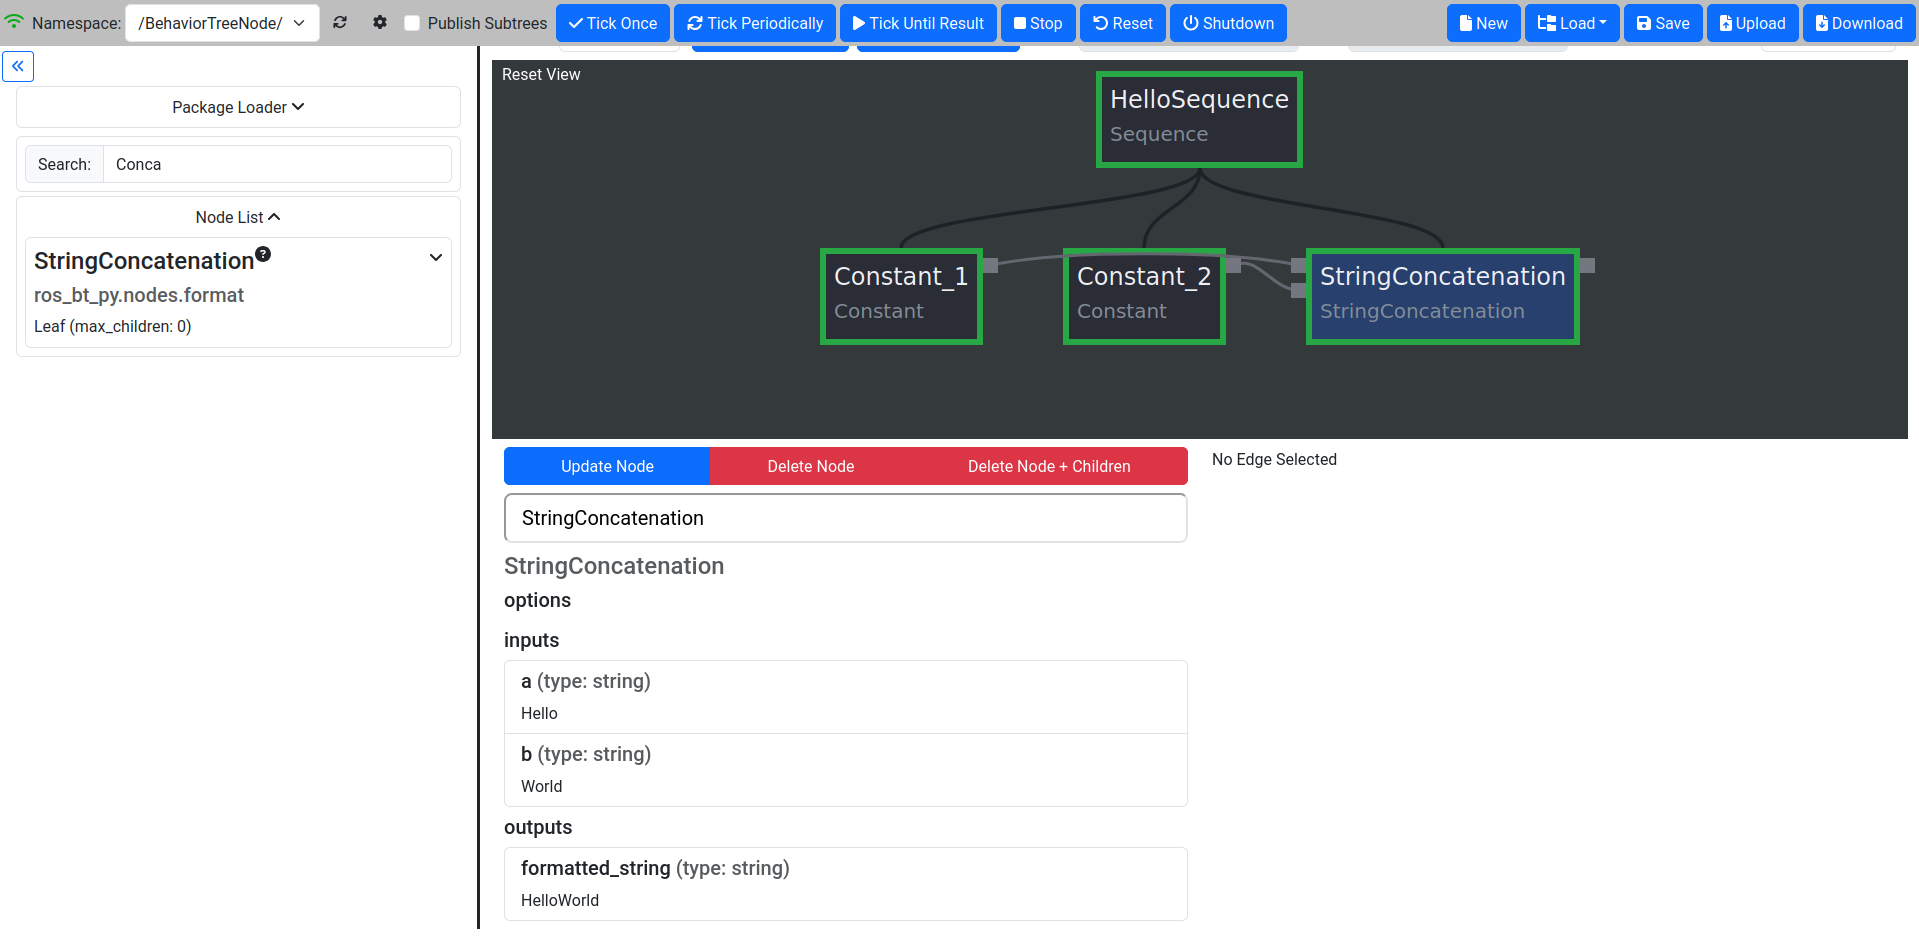
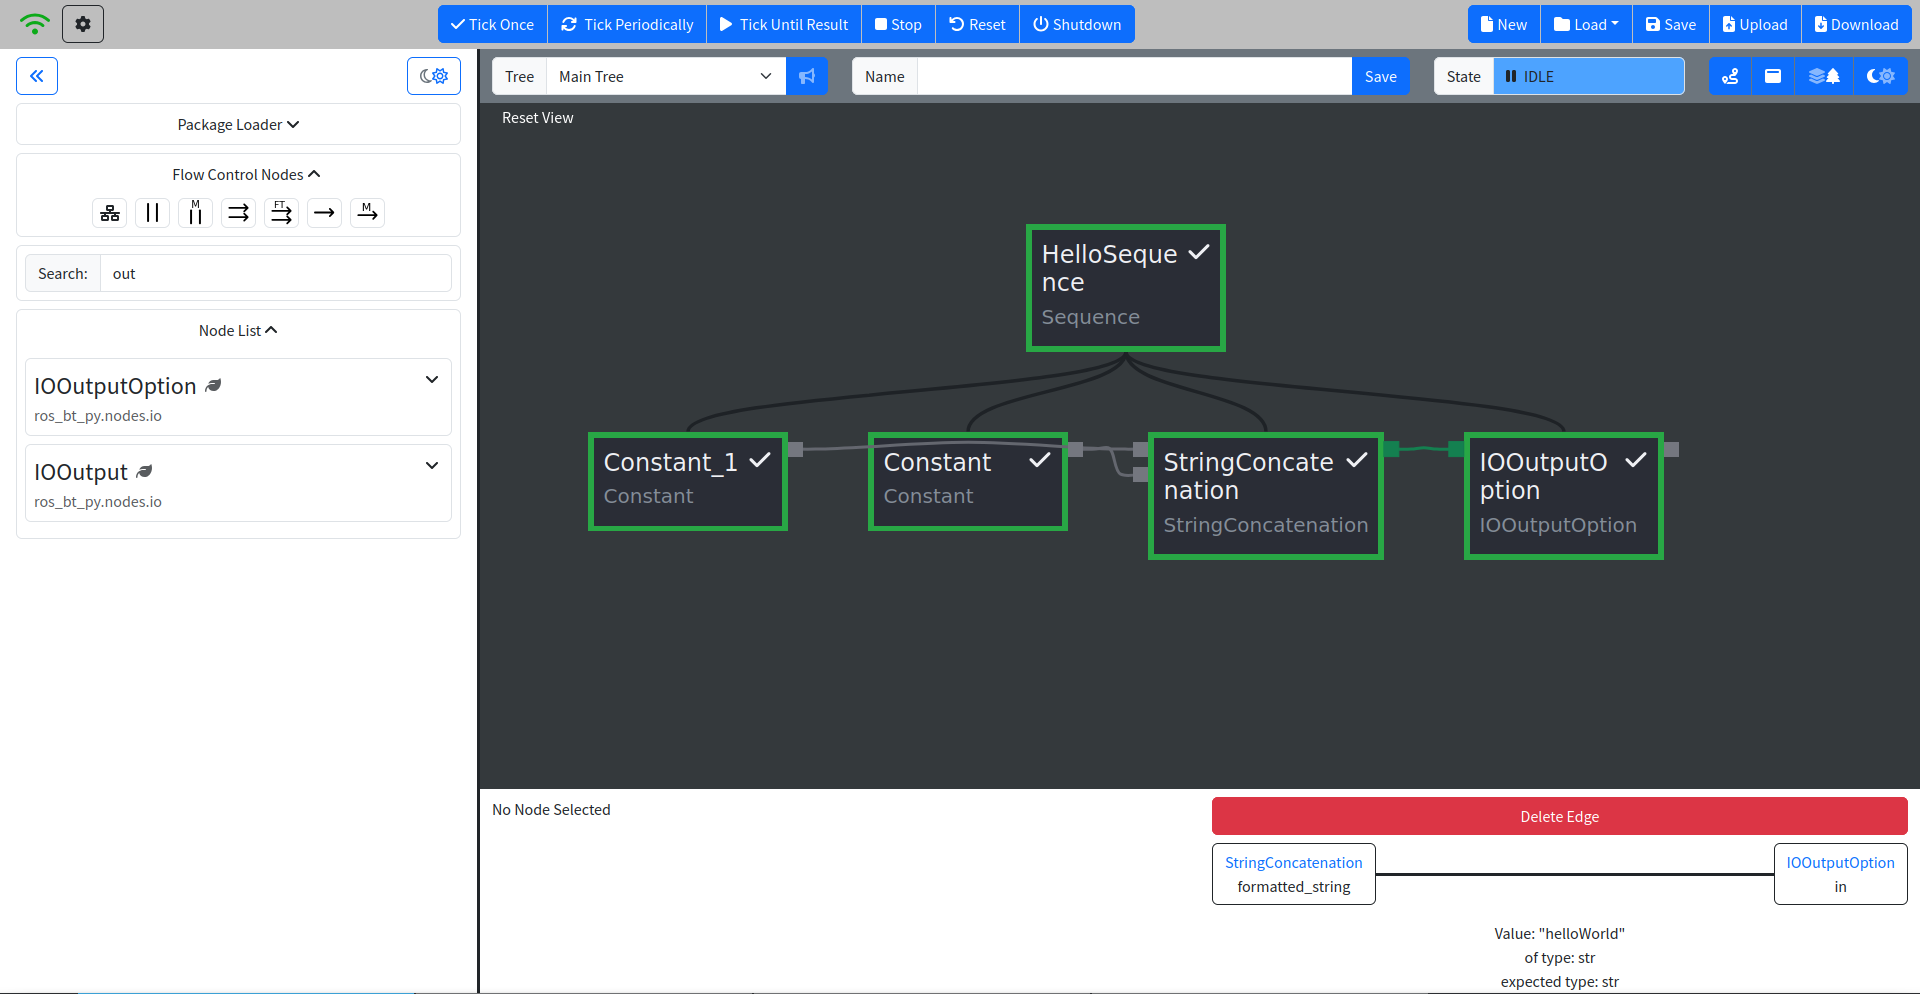
Updated the Getting Started and Basic Tutorial of the online documentation

diff --git a/ros_bt_py/doc/source/conf.py b/ros_bt_py/doc/source/conf.py
@@ -93,7 +93,7 @@ master_doc = "index"
 
 # General information about the project.
 project = "ros_bt_py"
-copyright = "2024, FZI Forschungszentrum Informatik"
+copyright = "2025, FZI Forschungszentrum Informatik"
 author = "FZI Forschungszentrum Informatik"
 
 # The version info for the project you're documenting, acts as replacement for

diff --git a/ros_bt_py/doc/source/basic_tutorial.rst b/ros_bt_py/doc/source/basic_tutorial.rst
@@ -48,11 +48,11 @@ Bar below that.
 The Top Menu Bar contains (from left to right):
 
 * An indicator to show that the editor is connected to a behavior tree instance
-* A dropdown menu to select which ROS namespace to monitor (you can run multiple behavior trees in
+* Additional settings available by clicking the cog icon
+  * A toggle to control the transmission of data flow information
+  * A dropdown menu to select which ROS namespace to monitor (you can run multiple behavior trees in
   different namespaces)
-* A refresh button
-* A special config button to change the address of the rosbridge server
-* Options to enable publishing of subtree data making it easier to monitor complex trees.
+  * A special config button to change the address of the rosbridge server
 * Buttons to control the execution of the currently loaded BT.
 * Buttons to load a BT from, or save it to, a ROS package.
 * Buttons to upload a BT YAML to the editor or download the YAML of the currently loaded BT
@@ -60,10 +60,10 @@ The Top Menu Bar contains (from left to right):
 The Support Bar contains:
 
 * A Tree selection window to select the displayed tree, especially useful when using Subtrees.
-* Toggle Buttons for the Data Graph (more on that later) and the GUI itself if you want a
-  fullscreen view.
 * The Name field, which is not really useful???? TODO: Fix?
 * The State Field showing the state of the tree, also more on that later.
+* Toggle Buttons for the Data Graph (more on that later) and the GUI itself if you want a
+  fullscreen view.
 
 Package Loader
 ==============
@@ -133,7 +133,7 @@ To start building the BT, you will have to add nodes from the Node List on the l
 It is common to start by adding a Sequence or Fallback node as the root of the BT.
 
 #. Type "sequence" into the search box and click the Sequence node.
-#. Customize the node’s name by setting it to "HelloSequeunce".
+#. Customize the node’s name by setting it to "HelloSequence".
 #. Add it to the BT by clicking the "Add to Tree" button.
 
 .. image:: _static/first_tree_1.png
@@ -160,7 +160,7 @@ After adding the node to the tree it needs to be adjusted to to what we want it 
 #. Change the Name to "Constant_1".
 #. Change the constant_type to "str" (this will automatically be expanded to "builtin.str").
 #. Change the constant_value to "hello".
-#. Press update node to commit the changes.
+#. Press "Update Node" to commit the changes.
 #. The canvas and properties will be updated.
 
 .. image:: _static/first_tree_3.png
@@ -175,10 +175,6 @@ First we add another Constant node:
 
 #. Add another constant node by dragging it to the right of the first one.
 #. Change its type to string and set the name value to "World".
-
-.. image:: _static/first_tree_3.png
-  :alt: Modifying the Constant Node
-
 #. Search for "Concat" in the Search Box and select StringConcatenation by dragging it to the
    right of the constants.
 
@@ -200,31 +196,39 @@ Compatible Inputs or Outputs are highlighted while dragging, as shown in the pic
 7. Run the finished tree
 ========================
 
-After creating a tree we need to run it to verify our work.
-When the tree is finished we should see the "StringConcatenation" node Output being "HelloWorld".
-A successful run of the tree is indicated by the State Field displaying "IDLE".
+After creating a tree, we need to run it to verify our work.
+The tree is usable as it is right now.
+But for the purposes of this tutorial,
+we will add an additional node to make the result visible in the GUI.
 
-#. Run the Tree by pressing "Tick Until Result".
-#. Make sure the State Field is displaying "IDLE".
-#. Click the "StringConcatenation" node to verify Inputs and Output in the Node Menu.
+#. Add an IOOutputOption node right of the Concatenation and change its type to str.
+#. Connect its input with the Concatenation output.
+#. In the Menu Bar, click on the cog icon and activate the Transmission of data flow information.
+   This sends data from the tree execution to be visualized in the GUI for debugging.
+#. Now, run the Tree by pressing "Tick Until Result".
+#. Make sure the State Field is displaying "IDLE", once the execution is done.
+#. Click on the edge between "StringConcatenation" and "IOOutputOption".
+   When the tree is finished we should see the value of the transmitted string being "HelloWorld".
+#. A successful run of the tree is indicated by the State Field displaying "IDLE".
 
 .. image:: _static/first_tree_5.png
   :alt: StringConcatenation in the finished tree
+
 
 ******************
 Working with bt_py
 ******************
 
-While working with bt_py it is important to understand both the tree structure created by the
-arrangements of different nodes as well, the Data Graph used to share information between the
+While working with bt_py, it is important to understand both the tree structure created by the
+arrangements of different nodes and the Data Graph used to share information between the
 nodes as well as the control of the tree in general.
 This section will give an overview of the processing of a BT, the Node Class Types that are
-available, how to use them effectively and all you need to know about the Data Graph.
+available, how to use them effectively, and all you need to know about the Data Graph.
 
 Tree Execution
 ==============
 
-Before we talk about the building blocks of a BT in more detail a short introduction to the actual
+Before we talk about the building blocks of a BT in more detail, a short introduction to the actual
 tree execution is needed to understand the effect of e.g. different Flow Control Node Classes in the
 next sections.
 
@@ -232,7 +236,7 @@ Ticking
 -------
 
 Traversal through the tree is done by "ticking" the tree.
-On Tick the node that is currently next in line will receive a tick command and execute its internal
+On Tick, the node that is currently next in line will receive a tick command and execute its internal
 "do_tick" method.
 This can lead to a multitude of results depending on the Node Class of the ticked node.
 In a standard configuration bt_py is trying to tick at a rate of 10 Hz.
@@ -285,7 +289,7 @@ Nodes
 Nodes are the backbone of each tree, creating the control flow in the BT as well as actually doing
 something.
 Every Node belongs to a Node Class, determining what the Node will do when it gets ticked.
-Additionally each node is assigned a Node State, representing its current condition and defining the
+Additionally, each node is assigned a Node State, representing its current condition and defining the
 behavior the Node will display when ticked.
 
 Node States
@@ -293,7 +297,7 @@ Node States
 
 Node States are shown by a color coded frame which can be used to visually debug a tree during
 runtime.
-Additionally Node States can affect the flow of the tree and which nodes are ticked through Flow
+Additionally, Node States can affect the flow of the tree and which nodes are ticked through Flow
 Control Nodes.
 
 * **UNINITIALIZED:**
@@ -337,13 +341,13 @@ in the tree) which underlines their intended usage.
 Data Graph
 ==========
 
-To distribute data between nodes bt_py uses a Data Graph instead of a blackboard implementation as
+To distribute data between nodes, bt_py uses a Data Graph instead of a blackboard implementation as
 it is used in bt_cpp and other implementations.
 
 This means that data needs to be explicitly wired between Inputs and Outputs of the individual
 nodes, but you don't need to worry about which entries are in your blackboard at a certain time.
 
-To wire Data draw a graph edge from an input to an output or vice versa.
+To wire Data, draw a graph edge from an input to an output or vice versa.
 While both Inputs and Outputs can have multiple connections at the same time, allowing for complex
 information flow in the tree, Inputs need to have at least one connection for the tree to start
 execution, as ticking a node without a set Input would lead to undefined behavior.
@@ -380,7 +384,8 @@ Basic Control Flows
 The most basic Control Flow Nodes you will use the most are Sequences and Fallback nodes.
 
 **Sequences** are ticked until all their Child Nodes returns success, making them suitable for
-linear action sequences you want the tree to trigger, such as getting a goal and driving to the goalwith your robot.
+linear action sequences you want the tree to trigger, such as getting a goal and driving to the goal
+with your robot.
 They will return FAILED as soon as one child fails.
 
 **Fallbacks** are ticked until one(!) of their Child Nodes returns success, making them suitable for
@@ -426,7 +431,7 @@ To avoid those effects, such as the longer running behavior to be triggered mult
 They will remember the state of their Child Nodes when being ticked again after a node returned
 RUNNING and in turn continue ticking that node until it reaches a terminal state.
 
-In general you will want to mostly use the memory version of the basic Flow Control Node Classes
+In general, you will want to mostly use the memory version of the basic Flow Control Node Classes
 when writing BTs for robotic applications and only use the basic versions when you explicitly want
 to display reactive behaviors.
 
@@ -434,11 +439,11 @@ to display reactive behaviors.
 Writing a more complex BT
 *************************
 
-Using the knowledge we gained about more complex Control Flows we now want to modify our tree that
+Using the knowledge we gained about more complex Control Flows, we now want to modify our tree that
 we created earlier to outputs either "HelloWorld" or "HelloRobot" randomly instead of a boring
 "HelloWorld".
 
-Starting from our basic tree we need to introduce a branching path through the tree where one path
+Starting from our basic tree, we need to introduce a branching path through the tree where one path
 sets the Input "b" of the "StringConcatenation" to "Hello" and the other sets it to "World".
 
 1. Adding a branching path
@@ -451,7 +456,8 @@ Additionally we add a third Constant "Constant_3" containing the string "Robot".
 #. Drag and Drop a Fallback Node before the StringConcatenation node.
 #. Drag the Constant_2 node below that Fallback node.
 #. Drag and Drop an additional Constant node to the right of the Constant_2 and adjust the Constant
-   type and value - it will automatically be named Constant_3!
+   type and value
+#. Connect the output of Constant_3 with the second input of the Concatenation
 
 .. image:: _static/second_tree_0.png
   :alt: Fallback added to the tree
@@ -483,6 +489,7 @@ So let's introduce a Sequence that takes care of this.
    generate either 0 or 1.
 #. Check the expected type and value of the CompareConstant node to make sure it will compare an int
    to either 0 or 1 - your choice.
+#. Don't forget to connect the output of RandomInt with CompareConstant
 
 .. image:: _static/second_tree_1.png
   :alt: Added random element
@@ -498,14 +505,14 @@ Using Subtrees
 **************
 
 When creating large trees both Data Wiring as well as Tree Structure can quickly get unwieldy.
-Additionally you should try to reuse behaviors as much as possible - no need to create the same tree
+Additionally, you should try to reuse behaviors as much as possible - no need to create the same tree
 section multiple times.
 
-To solve those problems bt_py provides Subtrees as a way to reduce redundancy and make it possible
+To solve those problems, bt_py provides Subtrees as a way to reduce redundancy and make it possible
 to quickly insert complex behaviors in multiple sections of one large tree while keeping the tree
 itself well structured.
 
-Inside the top level tree the Subtree is represented as a single node of the Subtree Node Class.
+Inside the top level tree, the Subtree is represented as a single node of the Subtree Node Class.
 To load a specific tree you will need to provide the path to the tree inside the Subtree Node
 Options.
 Note that the path can either be an absolute path, in which case you should lead with `file://` as
@@ -522,7 +529,7 @@ You can define Inputs/Outputs *implicitly* or *explicitly*.
 
 *Implicit* definition is the one exception to the rule of unconnected Inputs as it requires you to
 leave the Inputs you want to set from outside the Subtree to be empty.
-When unchecking the "use_io_nodes" Option in the Subtree Node Menu unconnected In- and Outputs will
+When unchecking the "use_io_nodes" Option in the Subtree Node Menu, unconnected In- and Outputs will
 be set to the Subtree In-/Outputs respectively.
 **This might cause the BT that is used as a Subtree not to be executable as a standalone tree,
 making them hard to verify!**
@@ -544,8 +551,8 @@ of the tree. But we also want to be able to still execute our "HelloWorld/Robot"
 Using what we learned before, we should utilize the tree as a Subtree, while explicitly defining
 tree Inputs and Outputs to keep the tree executable as a standalone tree.
 
-#. Drag and Drop an IOInputOption as well as an IOOutputOption node at the start and end of the
-   main tree sequence.
+#. Drag and Drop an IOInputOption to the start of the main tree sequence.
+   There should already be an IOOutputOption node at the end of the sequence from earlier.
 #. Adjust the Data Types and default values. The default value of the Input should be "Hello",
    the one of the Output is not important as we always set an input.
 #. Connect the Data Graph and delete the Constant_1 node - it has been substituted by the
@@ -568,6 +575,7 @@ string.
 #. Adjust the Constant to output "Goodbye" and connect the In-/Outputs.
 #. Verify the Output of the Subtree, it should read "GoodbyeWorld" or "GoodbyeRobot", depending on
    what was rolled in the Subtree.
+   To see the result, you might use an IOOutputOption in a similar way as before.
 
 .. image:: _static/third_tree_1.png
    :alt: Used as Subtree
@@ -600,16 +608,16 @@ Topics
 ======
 
 Both Subscriber and Publisher Node Classes are available to use.
-They use ROS 2 msg definitions as their Inputs and Outputs.
+They use ROS 2 message definitions as their Inputs and Outputs.
 
 Services and Actions
 ====================
 
-While topic interaction is nice, the main way you should interact with your robotic system through
+While topic interaction is nice, the main ways you should interact with your robotic system through
 bt_py are Services and Actions.
-When working with Services and Actions in the past we realized that composing Action Goals/Service
-Requests and decomposing Action Results/Service Responses needed large amounts of nodes in each
-tree.
+When working with Services and Actions in the past, we realized that composing Action Goals or
+Service Requests and decomposing Action Results/Service Responses needed large amounts of nodes in
+each tree.
 This is why both the **Service** as well as the **Action** Node Classes provide the fields of their
 Goals/Requests as well as Results/Responses directly in the tree, reducing the need for
 MessageToFields or FieldsToMessage contructions.

diff --git a/ros_bt_py/doc/source/getting_started.rst b/ros_bt_py/doc/source/getting_started.rst
@@ -29,7 +29,7 @@ To install ``ros_bt_py`` from source you need to follow these steps:
   3. Source your ROS2 installation ``source /opt/ros/*ros2 version*/setup.[bash|zsh|sh]``
   4. Run ``colcon build``
 
-2. Clone the ``ros_bt_py` repo_ from the `src`` folder.
+2. Clone the ``ros2_ros_bt_py`` repo_ into the ``src`` folder.
 3. Install all dependencies via ``rosdep install --from-paths . --ignore-src -y``.
 4. From the ``test_ws`` folder call ``colcon build``.
 5. Run ``source install/setup.[bash|zsh|sh]`` to load the build packages.
@@ -40,7 +40,7 @@ Now ``ros_bt_py`` is build and installed in your workspace and can be used.
 If this is your first time using ``ros_bt_py`` you should start by checking out the
 :ref:`basic-tutorial`.
 
-.. _repo: https://ids-git.fzi.de/ros2/ros_bt_py
+.. _repo: https://github.com/fzi-forschungszentrum-informatik/ros2_ros_bt_py
 
 *****************
 Running ros_bt_py
@@ -55,7 +55,7 @@ The command
 
 will start a BT server and the rosbridge and webserver needed for the GUI.
 Afterwards, you can open ``http://localhost:8085/index.html`` to use the editor.
-Alternatively, or if you run bt_py remotely or inside a container, you can also use the address
+Alternatively, or if you run ros_bt_py remotely or inside a container, you can also use the address
 shown in your shell.
 
 Launch Options

diff --git a/ros_bt_py/doc/source/index.rst b/ros_bt_py/doc/source/index.rst
@@ -19,7 +19,7 @@ robots, similar to BehaviorTree.Cpp_, SMACH_, FlexBE_ or RAFCON_.
 The roy_bt_py repository is home to multiple elements enabling you to quickly get started with BT
 development without the need to write any code:
 
-* The basic framework holding ros_bt_by together.
+* The basic framework holding ros_bt_py together.
 * A "standard library" of Behavior Tree nodes (i.e. subclasses of :class:`ros_bt_py.node.Node`)
   that already allow the construction of complex robot mission Behavior Trees.
   While these will let you do basically whatever you want,
@@ -41,7 +41,7 @@ ros_bt_py was created with the following goals in mind:
 
 * Fully ROS compatible.
 * Mission control for Robots, meaning long runing processes.
-* Possiblity to distribute it among multiple robots to enable cooperation in robot Teams.
+* Possiblity to distribute it among multiple robots to enable cooperation in robot teams.
 * Extendible, understandable and typesafe implementation.
 
 It is meant as a high level control option similar to SMACH or FlexBE.
